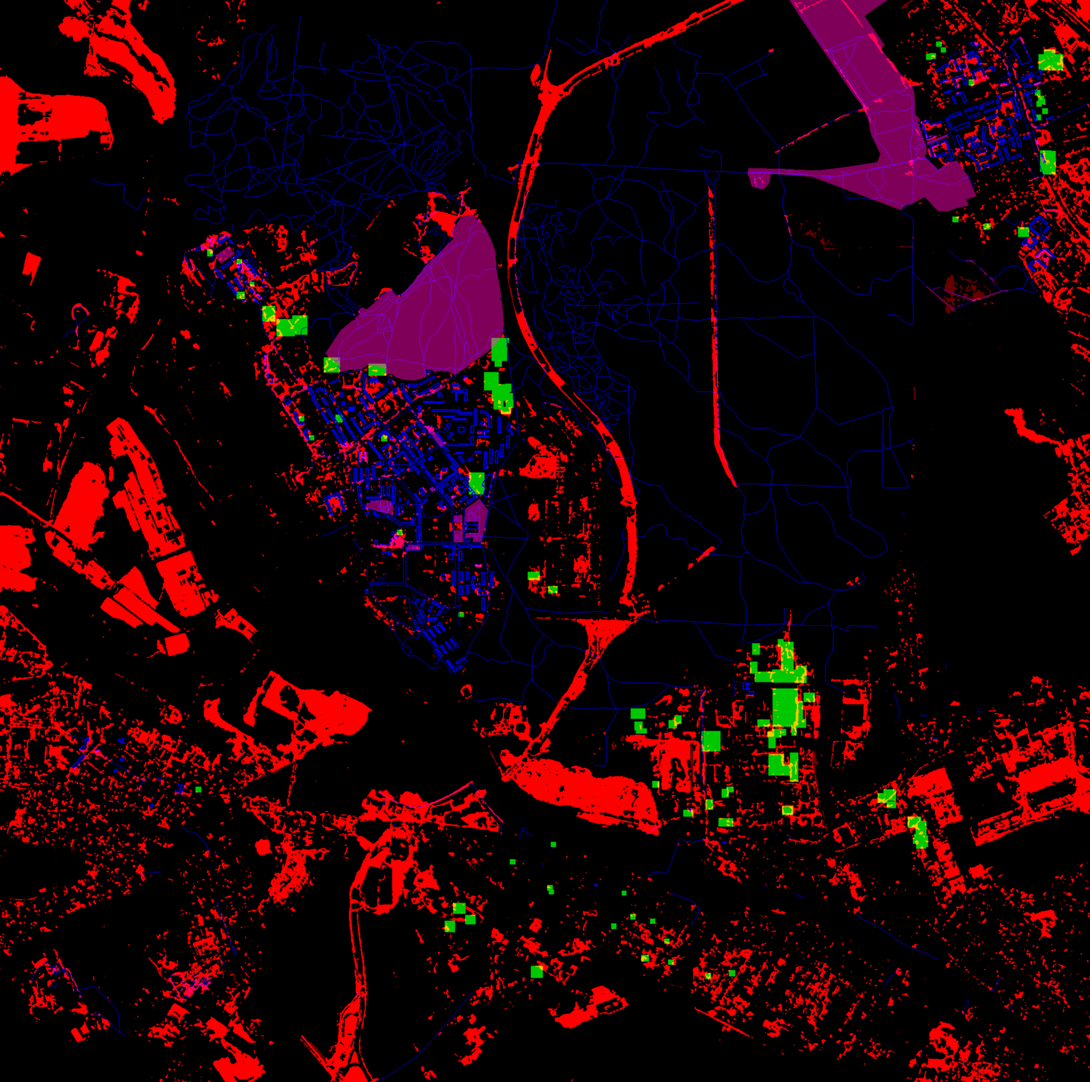
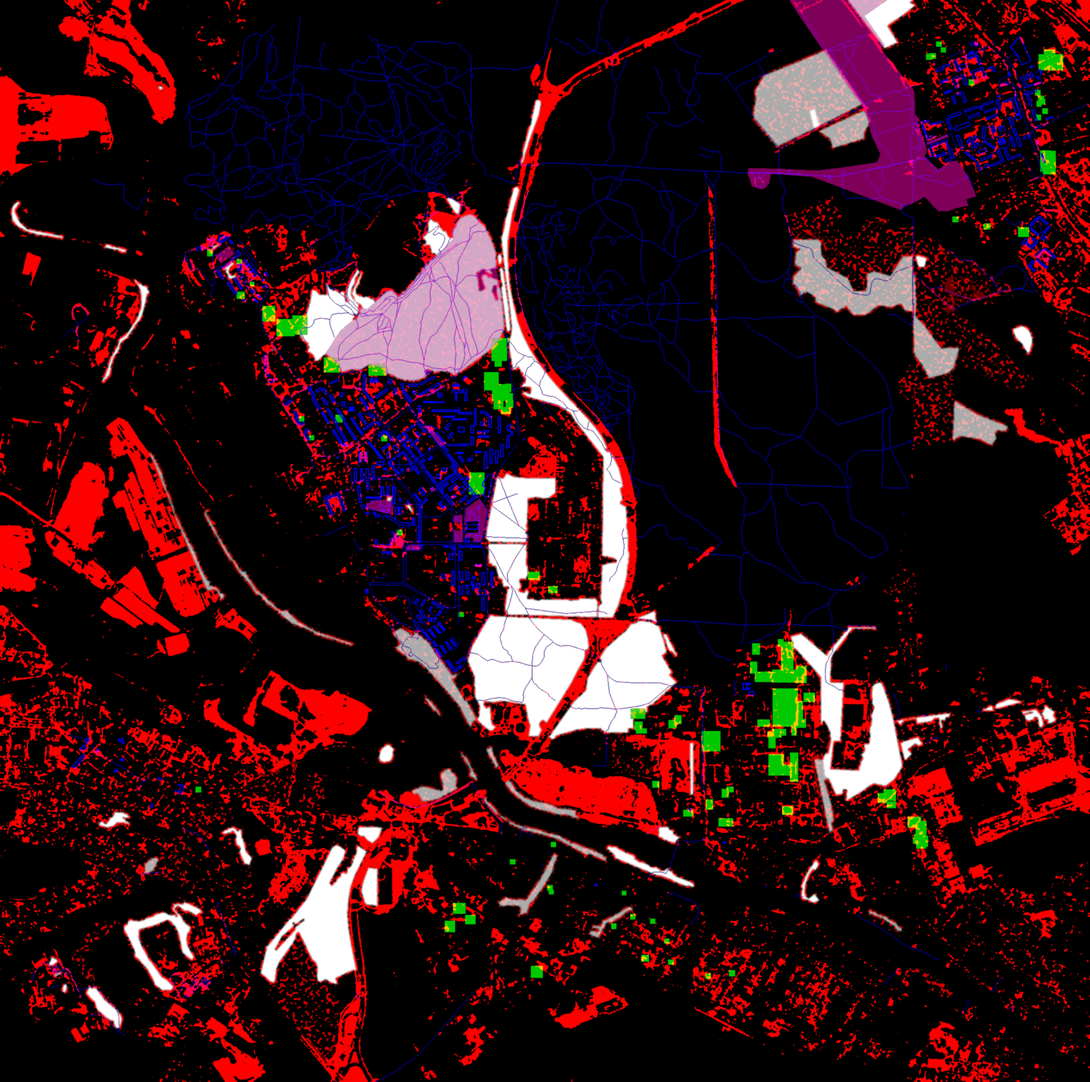
Ground: Poly Haven CC0 pebbles (gravel/garages), brown mud+leaves (worn paths, wood edges, patches in parks), forest_ground_06 (OSM wood/scrub via splat alpha), concrete_pavement (footways/plazas), asphalt_02 in splat; per-surface physics for forest floor; night sky now applied immediately; chase: a

diff --git a/game.js b/game.js
@@ -31,42 +31,46 @@ sun.castShadow=true;sun.shadow.mapSize.setScalar([1024,1024,2048,4096][GSET.shad
 const GND={ext:[-3247.54,-4265.63,8296.3,8237.89],ok:false};window.__GND=GND;{
  const HI=GSET.preset==='high'||GSET.preset==='ultra',LOWT=GSET.preset==='low'||mobile;const TL=new THREE.TextureLoader();
  const T=(f,srgb)=>{const t=TL.load('tex/gnd/'+f);t.wrapS=t.wrapT=THREE.RepeatWrapping;t.anisotropy=mobile?2:HI?8:4;if(srgb)t.encoding=THREE.sRGBEncoding;return t;};
- const NM=['grass','dirt','gravel','pave','asph'];const U={uSpl:{value:TL.load('tex/gnd/splat.png',t=>{GND.img(t.image);})},uAsm:{value:null},uNz:{value:null},uE:{value:new THREE.Vector4(...GND.ext)},uWet:{value:0}};
+ const NM=/oldgnd/.test(Q)?['grass','dirt','gravel','pave','asph']:['grass','dirt','gravel','pave','asph','forest'];const U={uSpl:{value:TL.load('tex/gnd/splat.png',t=>{GND.img(t.image);})},uAsm:{value:null},uNz:{value:null},uE:{value:new THREE.Vector4(...GND.ext)},uWet:{value:0}};
  U.uSpl.value.minFilter=THREE.LinearFilter;U.uSpl.value.generateMipmaps=false;
- NM.forEach((n,i)=>{U['uC'+i]={value:T(n+(LOWT?'_c512.jpg':'_c.jpg'),true)};if(HI)U['uN'+i]={value:T(n+'_n.jpg')};});
+ // Poly Haven CC0 4K sets (webp 2048 Ultra / 1024 / 512 Low): brown_mud_leaves_01, clean_pebbles, concrete_pavement, asphalt_02, forest_ground_06; grass keeps the old set
+ const PHS={dirt:'gnd2/mud',gravel:'gnd2/pebbles',pave:'gnd2/concrete',forest:'gnd2/forest'},SZ=GSET.preset==='ultra'&&!mobile?2048:LOWT?512:1024;
+ NM.forEach((n,i)=>{if(/oldgnd/.test(Q)&&n!=='forest'){U['uC'+i]={value:T(n+(LOWT?'_c512.jpg':'_c.jpg'),true)};if(HI)U['uN'+i]={value:T(n+'_n.jpg')};return;}if(n==='asph'){U['uC'+i]={value:T('../asph/diff_'+SZ+'.webp',true)};if(HI)U['uN'+i]={value:T('../asph/nor_'+Math.max(1024,SZ)+'.webp')};return;}
+  if(PHS[n]){U['uC'+i]={value:T('../'+PHS[n]+'_c'+SZ+'.webp',true)};if(HI)U['uN'+i]={value:T('../'+PHS[n]+'_n'+Math.max(1024,SZ)+'.webp')};return;}
+  U['uC'+i]={value:T(n+(LOWT?'_c512.jpg':'_c.jpg'),true)};if(HI)U['uN'+i]={value:T(n+'_n.jpg')};});
  {const N=64,d=new Uint8Array(N*N*4);for(let i=0;i<N*N*4;i++)d[i]=Math.random()*255|0;const t=new THREE.DataTexture(d,N,N);t.wrapS=t.wrapT=THREE.RepeatWrapping;t.magFilter=t.minFilter=THREE.LinearFilter;t.needsUpdate=true;U.uNz.value=t;}
  {const t=new THREE.DataTexture(new Uint8Array(4),1,1);t.needsUpdate=true;U.uAsm.value=t;}
  GND.setAsm=A=>{if(!A)return;const d=new Uint8Array(A.w*A.h*4);for(let i=0;i<A.m.length;i++)d[i*4]=A.m[i]*255;const t=new THREE.DataTexture(d,A.w,A.h);t.magFilter=t.minFilter=THREE.LinearFilter;t.needsUpdate=true;U.uAsm.value=t;GND.A=A;};
  // CPU copy of the splat for per-surface physics
  GND.img=im=>{try{const c=document.createElement('canvas');c.width=im.width;c.height=im.height;const g=c.getContext('2d');g.drawImage(im,0,0);GND.D=g.getImageData(0,0,c.width,c.height).data;GND.W=c.width;GND.H=c.height;GND.ok=true;}catch(e){}};
- const sc=[.33,.25,.45,.4,.22];// texture repeats per metre: grass 3 m, dirt 4 m, gravel 2.2 m, plitka 2.5 m, asphalt 4.5 m
+ const sc=[.33,.4,.5,.45,.3,.33];// repeats per metre: grass 3 m, mud+leaves 2.5 m, pebbles 2 m, concrete 2.2 m, asphalt 3.3 m, forest floor 3 m
  const m=new THREE.MeshLambertMaterial({color:0xffffff});GND.mat=m;GND.U=U;
  m.onBeforeCompile=sh=>{Object.assign(sh.uniforms,U);
   sh.vertexShader='varying vec3 vGw;\n'+sh.vertexShader.replace('#include <begin_vertex>','#include <begin_vertex>\n vGw=(modelMatrix*vec4(position,1.)).xyz;');
   let dec='varying vec3 vGw;uniform sampler2D uSpl,uAsm,uNz;uniform vec4 uE;uniform float uWet;\n';NM.forEach((n,i)=>{dec+='uniform sampler2D uC'+i+(HI?',uN'+i:'')+';\n';});
   // anti-tiling: two decorrelated samples (offset + rotated) blended by low-frequency noise; High+ only does the second fetch
-  dec+=`vec4 gW;float gNz;
+  dec+=`vec4 gW;float gNz,gFo;
 vec3 smp(sampler2D t,vec2 u){vec3 a=texture2D(t,u).rgb;${HI?'vec2 u2=mat2(.8,-.6,.6,.8)*u*.83+vec2(.37,.71);vec3 b=texture2D(t,u2).rgb;return mix(a,b,smoothstep(.35,.65,gNz));':'return a*(.88+.24*gNz);'}}
 `;
   sh.fragmentShader=dec+sh.fragmentShader.replace('#include <map_fragment>',`
  vec2 su=(vGw.xz-uE.xy)/uE.zw;float ins=step(0.,su.x)*step(su.x,1.)*step(0.,su.y)*step(su.y,1.);
  gNz=texture2D(uNz,vGw.xz*.011).r*.6+texture2D(uNz,vGw.xz*.043).g*.4;float nz2=texture2D(uNz,vGw.xz*.19).b;
- vec3 sp=texture2D(uSpl,su).rgb*ins;float wa=texture2D(uAsm,su).r*ins;
+ vec4 spa=texture2D(uSpl,su);vec3 sp=spa.rgb*ins;float fo=(1.-spa.a)*ins;fo=clamp((fo-.5+(gNz-.5)*.6)*2.+.5,0.,1.)*step(.04,fo);gFo=fo;float wa=texture2D(uAsm,su).r*ins;
  // noisy, sharpened transitions (worn edges instead of 4 m blur)
  vec4 w=vec4(sp,wa);w=clamp((w-.5+(gNz-.5)*.55+(nz2-.5)*.25)*2.2+.5,0.,1.)*step(.04,vec4(sp,wa));
  float wg=max(0.,1.-w.x-w.y-w.z-w.w);float tot=wg+w.x+w.y+w.z+w.w;gW=w/tot;float wgr=wg/tot;
  vec2 p=vGw.xz;vec3 col=vec3(0.);
- if(wgr>.01)col+=smp(uC0,p*${sc[0]})*wgr;if(gW.x>.01)col+=smp(uC1,p*${sc[1]})*gW.x;if(gW.y>.01)col+=smp(uC2,p*${sc[2]})*gW.y;if(gW.z>.01)col+=smp(uC3,p*${sc[3]})*gW.z;if(gW.w>.01)col+=smp(uC4,p*${sc[4]})*gW.w;
+ if(wgr*(1.-gFo)>.01)col+=smp(uC0,p*${sc[0]})*wgr*(1.-gFo);${NM.length>5?'if(wgr*gFo>.01)col+=smp(uC5,p*'+sc[5]+')*wgr*gFo;':''}if(gW.x>.01)col+=smp(uC1,p*${sc[1]})*gW.x;if(gW.y>.01)col+=smp(uC2,p*${sc[2]})*gW.y;if(gW.z>.01)col+=smp(uC3,p*${sc[3]})*gW.z;if(gW.w>.01)col+=smp(uC4,p*${sc[4]})*gW.w;
  col*=mix(vec3(1.),vec3(.62,.64,.68),uWet*(1.-wgr*.5));// wet darkening
  diffuseColor.rgb*=col*1.25;`);
   if(HI)sh.fragmentShader=sh.fragmentShader.replace('#include <normal_fragment_maps>',`
  {vec3 nm=vec3(0.,0.,1.);vec2 p=vGw.xz;float wgr=max(0.,1.-gW.x-gW.y-gW.z-gW.w);
-  vec3 a=(texture2D(uN0,p*${sc[0]}).xyz*2.-1.)*wgr+(texture2D(uN1,p*${sc[1]}).xyz*2.-1.)*gW.x+(texture2D(uN2,p*${sc[2]}).xyz*2.-1.)*gW.y+(texture2D(uN3,p*${sc[3]}).xyz*2.-1.)*gW.z+(texture2D(uN4,p*${sc[4]}).xyz*2.-1.)*gW.w;
+  vec3 a=(texture2D(uN0,p*${sc[0]}).xyz*2.-1.)*wgr*(1.-gFo)${NM.length>5?'+(texture2D(uN5,p*'+sc[5]+').xyz*2.-1.)*wgr*gFo':''}+(texture2D(uN1,p*${sc[1]}).xyz*2.-1.)*gW.x+(texture2D(uN2,p*${sc[2]}).xyz*2.-1.)*gW.y+(texture2D(uN3,p*${sc[3]}).xyz*2.-1.)*gW.z+(texture2D(uN4,p*${sc[4]}).xyz*2.-1.)*gW.w;
   a.xy*=.8;vec3 wn=normalize(vec3(a.x,a.z,a.y));normal=normalize((viewMatrix*vec4(wn,0.)).xyz);}`);
  };m.customProgramCacheKey=()=>'gnd'+(HI?1:0)+(LOWT?1:0);
  // per-surface lookup: 0 asphalt,1 plitka,2 gravel,3 dirt,4 grass
  GND.surf=(x,z)=>{if(GND.A&&(()=>{const A=GND.A,i=Math.floor((x-A.x0)/A.c),j=Math.floor((z-A.z0)/A.c);return i>=0&&j>=0&&i<A.w&&j<A.h&&A.m[j*A.w+i]===1;})())return 0;if(!GND.ok)return 4;
-  const i=Math.floor((x-GND.ext[0])/GND.ext[2]*GND.W),j=Math.floor((z-GND.ext[1])/GND.ext[3]*GND.H);if(i<0||j<0||i>=GND.W||j>=GND.H)return 4;const o=(j*GND.W+i)*4,d=GND.D[o],g=GND.D[o+1],pv=GND.D[o+2];const mx=Math.max(d,g,pv);if(mx<110)return 4;return mx===pv?1:mx===g?2:3;};
+  const i=Math.floor((x-GND.ext[0])/GND.ext[2]*GND.W),j=Math.floor((z-GND.ext[1])/GND.ext[3]*GND.H);if(i<0||j<0||i>=GND.W||j>=GND.H)return 4;const o=(j*GND.W+i)*4,d=GND.D[o],g=GND.D[o+1],pv=GND.D[o+2];const mx=Math.max(d,g,pv);if(mx<110){if(GND.D[o+3]<128)return ((i*7+j*13)%3)?3:4;/* forest floor: dirt/grass mix */return 4;}return mx===pv?1:mx===g?2:3;};
 }
 const grass=tex(cv(256,256,(g,w,h)=>{g.fillStyle='#6b8f4e';g.fillRect(0,0,w,h);for(let i=0;i<4000;i++){g.fillStyle=`hsl(${80+rnd()*30},${30+rnd()*25}%,${25+rnd()*20}%)`;g.fillRect(rnd()*w,rnd()*h,2,3);}}),400,400);
 const ground=new THREE.Mesh(new THREE.PlaneGeometry(14000,14000,(window.HGT?HGT.n-1:1),(window.HGT?HGT.n-1:1)),(/[?&]sat\b/.test(Q)?new THREE.MeshLambertMaterial({map:grass}):GND.mat));ground.rotation.x=-Math.PI/2;ground.position.y=/[?&]sat\b/.test(Q)?-.25:-.07;if(window.HGT){const sc=window.SATC||[];let X0=-3000,X1=3000,Z0=-3000,Z1=3000;if(sc.length){X0=Math.min(...sc.map(c=>c.x0));X1=Math.max(...sc.map(c=>c.x1));Z0=Math.min(...sc.map(c=>c.z0));Z1=Math.max(...sc.map(c=>c.z1));}
@@ -846,10 +850,11 @@ for(let i=0;i<PN&&longR.length;i++){const o=longR[Math.floor(rnd()*longR.length)
 S.add(pb,ph,pl);
 PT('player car');// ---------- player car + BMW-style cockpit ----------
 const car=new THREE.Group();
+const RVL=[0].map(x=>{const l=new THREE.PointLight(0xfff4e6,0,16,1.4);l.position.set(0,.8,-3.1);car.add(l);l.visible=false;return l;});/* point light: spot lights break r149 cookie-map indexing (hl.map) */window.__RVL=RVL;
 // reverse lamps: two wide white spot lights behind the tailgate (~18 m), always in the scene (intensity 0 when off -> no shader recompile)
-const RVL=[-.62,.62].map(x=>{const l=new THREE.SpotLight(0xfff4e6,0,18,1.05,.7,1.6);l.position.set(x,.75,-2.45);l.target.position.set(x*2.2,0,-9);car.add(l,l.target);l.visible=false;return l;});
+
 // GLB parts with alpha textures came in as transparent+no depth write -> things drew through the body; make them alpha-tested opaque
-const fixCarMats=()=>car.traverse(o=>{if(!o.isMesh)return;(Array.isArray(o.material)?o.material:[o.material]).forEach(m=>{if(m.transparent&&m.opacity>=.99&&!m.userData.glass&&m.blending===THREE.NormalBlending&&!(m.isShaderMaterial||m.type==='ShaderMaterial')&&!o.userData.hud){m.transparent=false;m.depthWrite=true;m.alphaTest=Math.max(m.alphaTest,.5);m.needsUpdate=true;}});});
+const fixCarMats=()=>car.traverse(o=>{if(!o.isMesh||o.userData.cabM)return;(Array.isArray(o.material)?o.material:[o.material]).forEach(m=>{if(m.transparent&&m.opacity>=.99&&!m.userData.glass&&m.blending===THREE.NormalBlending&&!(m.isShaderMaterial||m.type==='ShaderMaterial')&&!o.userData.hud){m.transparent=false;m.depthWrite=true;m.alphaTest=Math.max(m.alphaTest,.5);m.needsUpdate=true;}});});
 {let n=0;const iv=setInterval(()=>{fixCarMats();if(++n>30)clearInterval(iv);},1000);}S.add(car);const cab=new THREE.Group();window.__cab=cab;cab.rotation.y=Math.PI;car.add(cab);
 const leather=tex(cv(512,512,(g,w,h)=>{g.fillStyle='#1c1917';g.fillRect(0,0,w,h);for(let i=0;i<14000;i++){const v=rnd();g.fillStyle=`rgba(${v<.5?0:70},${v<.5?0:60},${v<.5?0:55},${.25*rnd()})`;g.beginPath();g.arc(rnd()*w,rnd()*h,.6+rnd()*1.6,0,6.3);g.fill();}}),3,3);
 const stitchT=tex(cv(64,8,(g)=>{g.fillStyle='rgba(0,0,0,0)';g.clearRect(0,0,64,8);g.fillStyle='#c9a27a';for(let x=4;x<64;x+=16)g.fillRect(x,2,9,4);}),60,1);
@@ -1075,16 +1080,33 @@ if(THREE.GLTFLoader&&!/nomodel/.test(Q)){const ld=new THREE.GLTFLoader();if(wind
   const nw=[];[['Wheel_FL','Caliper_FL',1],['Wheel_FR','Caliper_FR',1],['Wheel_RL',null,0],['Wheel_RR',null,0]].forEach(([wn,cn,f])=>{const w=N[wn];if(!w)return;const g=new THREE.Group();g.position.copy(w.position).add(root.position);xb.add(g);w.position.set(0,0,0);g.add(w);if(cn&&N[cn]){N[cn].position.set(0,0,0);g.add(N[cn]);}nw.push({g,sp:w,f});});
   if(N.Steering){const ax=(N.Steering.userData&&N.Steering.userData.axis)||[0,.909,.417];XM.sw=N.Steering;XM.swQ=N.Steering.quaternion.clone();XM.swAx=new THREE.Vector3(ax[0],ax[2],-ax[1]).normalize();}
   if(nw.length==4&&!/nocabmodel/.test(Q)){// cabin: clone of body+interior+steering with cheap unlit-ish materials, procedural cabin hidden except screens/mirrors
-   const cx=root.clone(true),MC={};cx.traverse(o=>{if(!o.isMesh)return;o.castShadow=o.receiveShadow=false;const f=m=>{if(MC[m.uuid])return MC[m.uuid];
+   const cx=root.clone(true),MC={};
+   // Poly Haven CC0 cabin textures: fabric_leather_02 (wheel rim, armrests/edges), velour_velvet (seats, doors, headliner lighter), coated_pine (fineline wood trims)
+   const CT=!/[?&]cabtex/.test(Q)?{}:(()=>{const L=new THREE.TextureLoader(),S=mobile?512:1024,t=(n,srgb)=>{const x=L.load('tex/cab/'+n+S+'.webp');x.wrapS=x.wrapT=THREE.RepeatWrapping;x.anisotropy=4;if(srgb)x.encoding=THREE.sRGBEncoding;return x;};
+    return{lc:t('leather_c',1),ln:t('leather_n'),lr:t('leather_r'),vc:t('velour_c',1),vn:t('velour_n'),wc:t('wood_c',1),wn:t('wood_n'),wr:t('wood_r')};})();
+   const CROLE=!/[?&]cabtex/.test(Q)?{}:{Steering_2:'rim',Interior_7:'leather',Interior_8:'velour',Interior_2:'wood'};
+   // r149 BufferGeometry.clone() of GLB interleaved attributes loses the buffer byteOffset -> garbage; deinterleave by hand
+   const dcl=g=>{const n=new THREE.BufferGeometry();for(const k in g.attributes){const A=g.attributes[k],it=A.itemSize,arr=new Float32Array(A.count*it);for(let i=0;i<A.count;i++)for(let j=0;j<it;j++)arr[i*it+j]=A.getComponent?A.getComponent(i,j):[A.getX(i),A.getY(i),A.getZ(i),A.getW(i)][j];n.setAttribute(k,new THREE.BufferAttribute(arr,it,A.normalized));}if(g.index)n.setIndex(g.index.clone());g.groups.forEach(q=>n.addGroup(q.start,q.count,q.materialIndex));return n;};
+   const boxUV=(g,k)=>{g=dcl(g);const P=g.attributes.position,N=g.attributes.normal,uv=new Float32Array(P.count*2);for(let i=0;i<P.count;i++){const x=P.getX(i),y=P.getY(i),z=P.getZ(i),ax=Math.abs(N.getX(i)),ay=Math.abs(N.getY(i)),az=Math.abs(N.getZ(i));let u,v;if(az>=ax&&az>=ay){u=x;v=y;}else if(ay>=ax){u=x;v=z;}else{u=z;v=y;}uv[i*2]=u*k;uv[i*2+1]=v*k;}g.setAttribute('uv',new THREE.BufferAttribute(uv,2));return g;};
+   const rimUV=g=>{g=dcl(g);const P=g.attributes.position;let Rm=0,zc=0;for(let i=0;i<P.count;i++){Rm+=Math.hypot(P.getX(i),P.getY(i));zc+=P.getZ(i);}Rm/=P.count;zc/=P.count;const uv=new Float32Array(P.count*2);
+    for(let i=0;i<P.count;i++){const x=P.getX(i),y=P.getY(i),r=Math.hypot(x,y);uv[i*2]=(Math.atan2(y,x)/6.2832+.5)*10;uv[i*2+1]=(Math.atan2(P.getZ(i)-zc,r-Rm)/6.2832+.5)*1.5;}g.setAttribute('uv',new THREE.BufferAttribute(uv,2));return g;};
+   const velCol=g=>{const P=g.attributes.position;g.computeBoundingBox();const b=g.boundingBox,c=new Float32Array(P.count*3);for(let i=0;i<P.count;i++){const t=(P.getY(i)-b.min.y)/(b.max.y-b.min.y);const hd=t>.78?1:0;const v=hd?.78:.2;c[i*3]=v*1.02;c[i*3+1]=v;c[i*3+2]=v*.97;}g.setAttribute('color',new THREE.BufferAttribute(c,3));return g;};
+   
+   cx.traverse(o=>{if(!o.isMesh)return;o.castShadow=o.receiveShadow=false;{const role=CROLE[o.name];if(role&&!o.userData.ct){o.userData.ct=1;o.geometry=role==='rim'?rimUV(o.geometry):role==='velour'?velCol(boxUV(o.geometry,9)):boxUV(o.geometry,role==='wood'?4.5:7);o.userData.role=role;}}const f=m=>{const mk=m.uuid+(o.userData.role||'');if(MC[mk])return MC[mk];
   // interior materials by part: PBR (Standard + room env map) on Medium+, Lambert on Low; emissive kept low so trims don't blow out
   const PB=!(GSET.preset==='low'||mobile),nm=m.name||'';const K={LEATHER:{r:.5,m:0,e:.6,env:.55,stitch:1},STIT:{r:.6,m:0,e:.7,env:.3},INT_MAT:{r:.22,m:1,e:.12,env:1.25,col:0xb9bec4},INT_A:{r:.32,m:.55,e:.8,env:1},Plastic_INT:{r:.6,m:0,e:.9,env:.45},Fabric:{r:.95,m:0,e:1.2,env:.15,col:0xc9c6bf},Speaker:{r:.35,m:.8,e:.6,env:.9},Speaker_1:{r:.35,m:.8,e:.6,env:.9},grille_INT_1:{r:.3,m:.85,e:.6,env:1},Grille_Int:{r:.3,m:.85,e:.6,env:1},DISK:{r:.25,m:.9,e:.6,env:1.1},BADGES:{r:.2,m:.9,e:.6,env:1.1},x5dummy_material_39:{r:.07,m:0,e:0,env:1.3,col:0x050608,piano:1}}[nm]||{r:.6,m:0,e:.8,env:.4};
-  const l=PB?new THREE.MeshStandardMaterial({color:m.color,map:m.map,transparent:m.transparent,opacity:m.opacity,depthWrite:m.depthWrite,side:THREE.DoubleSide,alphaTest:m.alphaTest,roughness:K.r,metalness:K.m}):new THREE.MeshLambertMaterial({color:m.color,map:m.map,transparent:m.transparent,opacity:m.opacity,depthWrite:m.depthWrite,side:THREE.DoubleSide,alphaTest:m.alphaTest});
+  let l=PB?new THREE.MeshStandardMaterial({color:m.color,map:m.map,transparent:m.transparent,opacity:m.opacity,depthWrite:m.depthWrite,side:THREE.DoubleSide,alphaTest:m.alphaTest,roughness:K.r,metalness:K.m}):new THREE.MeshLambertMaterial({color:m.color,map:m.map,transparent:m.transparent,opacity:m.opacity,depthWrite:m.depthWrite,side:THREE.DoubleSide,alphaTest:m.alphaTest});
   l.userData.src=nm;l.userData.eK=K.e;l.userData.env=K.env;if(K.col!==undefined)l.color.setHex(K.col);
   if(m.emissiveMap){l.emissive=m.emissive;l.emissiveMap=m.emissiveMap;}else if(m.map){l.emissive=new THREE.Color(.1,.1,.1);l.emissiveMap=m.map;}else l.emissive=m.color.clone().multiplyScalar(.08);
   if(K.piano){l.map=l.emissiveMap=null;l.emissive.setHex(0);}
   if(PB&&K.stitch&&CABX.leatherN){l.normalMap=CABX.leatherN;l.normalScale=new THREE.Vector2(.35,.35);}
+  {const role=o.userData.role,HQ=PB&&(GSET.preset==='high'||GSET.preset==='ultra');if(role&&PB){const ph=HQ?new THREE.MeshPhysicalMaterial({side:THREE.DoubleSide}):new THREE.MeshStandardMaterial({side:THREE.DoubleSide});ph.userData=l.userData;
+    if(role==='rim'||role==='leather'){ph.map=CT.lc;ph.normalMap=CT.ln;ph.normalScale=new THREE.Vector2(.8,.8);ph.roughnessMap=CT.lr;ph.roughness=.85;if(HQ){ph.sheen=.35;ph.sheenRoughness=.45;ph.sheenColor=new THREE.Color(0x6a6660);}ph.emissive=new THREE.Color(0x0a0a0a);ph.emissiveMap=CT.lc;}
+    else if(role==='velour'){ph.map=CT.vc;ph.normalMap=CT.vn;ph.normalScale=new THREE.Vector2(.6,.6);ph.vertexColors=true;ph.roughness=.95;if(HQ){ph.sheen=1;ph.sheenRoughness=.35;ph.sheenColor=new THREE.Color(0x8a8580);}ph.emissive=new THREE.Color(0x111111);ph.emissiveMap=CT.vc;}
+    else if(role==='wood'){ph.map=CT.wc;ph.normalMap=CT.wn;ph.normalScale=new THREE.Vector2(.4,.4);ph.roughnessMap=CT.wr;ph.roughness=.6;if(HQ){ph.clearcoat=1;ph.clearcoatRoughness=.06;}ph.emissive=new THREE.Color(0x0c0a08);ph.emissiveMap=CT.wc;}
+    ph.userData.eK=.6;ph.userData.env=role==='wood'?1.1:.35;l.dispose();l=ph;}}
   if(PB&&CABX.env){l.envMap=CABX.env;l.envMapIntensity=K.env*(tod==0?1:tod==1?.5:.12);}
-  (XM.cabMats=XM.cabMats||[]).push(l);if(l.emissiveMap)l.emissive.setScalar(K.e*(tod==0?.2:tod==1?.12:.05));return MC[m.uuid]=l;};o.material=Array.isArray(o.material)?o.material.map(f):f(o.material);});
+  (XM.cabMats=XM.cabMats||[]).push(l);if(l.emissiveMap)l.emissive.setScalar(K.e*(tod==0?.2:tod==1?.12:.05));return MC[mk]=l;};o.material=Array.isArray(o.material)?o.material.map(f):f(o.material);});
    cx.rotation.y=Math.PI;cx.position.set(0,-.029,-.006);if(CABX.fill&&!CABX.fill.parent){car.add(CABX.fill,CABX.amb);CABX.fill.intensity=tod==0?.9:tod==1?.45:.05;CABX.amb.intensity=tod==2?.35:tod==1?.12:0;}const keep=new Set([disp,prM,rcG,hudM.parent===cab?hudM:null,...MIR.map(o=>o.mesh)]);cab.children.forEach(o=>{if(o.isCamera||o.isLight||keep.has(o))return;o.visible=false;});
    {// Curved Display fitted to the model's own screen quads (Interior_11: cluster x -.554..-.235, CID x -.161..183; measured in cab frame)
  const P=[[-.554,-.662,-.685],[-.235,-.645,-.667],[-.161,-.635,-.661],[.183,-.569,-.596]],yb=1.067,yt=1.194,N=36,pos=[],uv=[],idx=[];
@@ -1138,7 +1160,7 @@ function bodyTick(dt){lightTick();gfxTick(dt);const delta=st.steer*.6/(1+Math.ab
  tailM.color.setHex(st.brk>.1||st.held?0xff1010:(lights?0x8a1010:0x400606));revM.color.setHex(st.sel==='R'?0xffffff:0x333333);
  body.children.forEach(o=>{if(o.userData.side){const on=(st.haz||st.ind===o.userData.side*-1||st.ind===o.userData.side)&&indOn;}});
  const iL=(st.haz||st.ind===-1)&&indOn,iR=(st.haz||st.ind===1)&&indOn;body.children.forEach(o=>{if(o.userData.side){o.material=o.userData.side>0?(iL?indOnM:indM):(iR?indOnM:indM);}});
- if(chase){const s=Math.sin(st.h),c=Math.cos(st.h);const hb2=st.h+(st.beta||0)*.6+CA,s3=Math.sin(hb2),c3=Math.cos(hb2);const tx=st.x-s3*6.2,tz=st.z-c3*6.2;if(!chP)chP=new THREE.Vector3(tx,2.4,tz);chP.lerp(_v1.set(tx,2.4,tz),Math.min(1,dt*10));chaseCam.position.copy(chP);if(COLX.shk>0){const k=COLX.shk*COLX.shk*.35,tt=performance.now()*.05;chaseCam.position.x+=Math.sin(tt*1.3)*k;chaseCam.position.y+=Math.sin(tt*1.7)*k*.6;chaseCam.position.z+=Math.cos(tt*1.1)*k;};chaseCam.position.y+=GFX.y*3;chaseCam.lookAt(st.x+s*3,1.1-GFX.p*6,st.z+c*3);}}
+ if(chase){const s=Math.sin(st.h),c=Math.cos(st.h);const hb2=st.h+(st.beta||0)*.6+CA,s3=Math.sin(hb2),c3=Math.cos(hb2);const tx=st.x-s3*6.2,tz=st.z-c3*6.2;if(!chP)chP=new THREE.Vector3(tx,2.4,tz);chP.lerp(_v1.set(tx,2.4,tz),Math.min(1,dt*10));chaseCam.position.copy(chP);if(COLX.shk>0&&performance.now()-(window.__t0s||(window.__t0s=performance.now()))>3000){const k=Math.min(1,COLX.shk)**2*.35,tt=performance.now()*.05;chaseCam.position.x+=Math.sin(tt*1.3)*k;chaseCam.position.y+=Math.sin(tt*1.7)*k*.6;chaseCam.position.z+=Math.cos(tt*1.1)*k;};chaseCam.position.y+=Math.max(-.3,Math.min(.3,GFX.y*3));chaseCam.lookAt(st.x+s*3,1.1-GFX.p*6,st.z+c*3);}}
 const indOnM=new THREE.MeshBasicMaterial({color:0xffa010});
 function setChase(v){chase=v;body.visible=v;cab.visible=!v;chP=null;const b=document.getElementById('bCam');if(b)b.classList.toggle('a',v);}if(/[?&]chase/.test(Q))setTimeout(()=>setChase(true),0);
 const topCam=new THREE.PerspectiveCamera(60,innerWidth/innerHeight,Q.includes("city")?50:1,12000);
@@ -1261,7 +1283,7 @@ COLX.resolve=dt=>{if(DYNO)return;COLX.trees();const s2=Math.sin(st.h),c2=Math.co
 function sfx(type,v){if(!AU||v<.05)return;const A=AU;if(type=='crash'){A.burst(120,.7,.45,.9*v);A.burst(900,1.2,.25,.5*v);A.burst(3200,2,.15,.25*v);}else if(type=='crack'){for(let i=0;i<5;i++)setTimeout(()=>A.burst(1500+Math.random()*2500,4,.06,.5*v),i*35);A.burst(200,1,.5,.6*v);}else if(type=='metal'){A.burst(650,12,.6,.4*v);A.burst(1900,14,.4,.25*v);}}
 // ---------- input ----------
 const K={};addEventListener('keydown',e=>{K[e.code]=1;if(e.code=='Backspace')Object.assign(st,JSON.parse(JSON.stringify(start)));if(e.code=='Space')e.preventDefault();audioInit();});addEventListener('keyup',e=>K[e.code]=0);
-const CA=(+(/ca=(-?\d+)/.exec(Q)||[0,0])[1])*Math.PI/180;const TST=(/tst=(\w+)/.exec(Q)||[])[1];const AID=!/aid=0/.test(Q);let tT0=0,tT=0,tPh=0,tX0=0,tZ0=0,tH0=0,tLog=0,tMax=0,tSpin=0,tSpinN=0,tLockN=0,tAbsN=0;const DRIFT=Q.includes('drift'),HBT=Q.includes('hbt');let dT=0;const T={steer:0,gas:0,brk:0,hb:0};{const m=/at=(-?\d+),(-?\d+)/.exec(Q);if(m){st.x=+m[1];st.z=+m[2];}}let swAng=0,swHeld=false;
+const CA=(+(/ca=(-?\d+)/.exec(Q)||[0,0])[1])*Math.PI/180;const TST=(/tst=(\w+)/.exec(Q)||[])[1];const AID=!/aid=0/.test(Q);let tT0=0,tT=0,tPh=0,tX0=0,tZ0=0,tH0=0,tLog=0,tMax=0,tSpin=0,tSpinN=0,tLockN=0,tAbsN=0;const DRIFT=Q.includes('drift'),HBT=Q.includes('hbt');let dT=0;const T={steer:0,gas:0,brk:0,hb:0};{const m=/at=(-?\d+),(-?\d+)(?:,(-?[\d.]+))?/.exec(Q);if(m){st.x=+m[1];st.z=+m[2];if(m[3]!==undefined)st.h=+m[3]*Math.PI/180;}}let swAng=0,swHeld=false;
 function setGear(g){const sp=Math.abs(st.v)*3.6;if(g===st.sel)return;if(sp>3&&!(g==='N'))return flash();st.sel=g;st.rev=g==='R';if(g!=='D')st.g=0;updGsel();}
 function flash(){const e=document.getElementById('lever');if(e){e.style.outline='2px solid #f44';setTimeout(()=>e.style.outline='',300);}}
 function gearMove(d){const ord=['R','N','D'];const i=ord.indexOf(st.sel);if(st.sel==='P')setGear(d<0?'R':'D');else setGear(ord[Math.max(0,Math.min(2,i+d))]);knobKick=d;}
@@ -1490,8 +1512,8 @@ const SKY={};window.__SKY=SKY;if(!/oldsky/.test(Q)){const L=new THREE.TextureLoa
    #include <encodings_fragment>
   }`});
  const dome=new THREE.Mesh(new THREE.SphereGeometry(900,32,16),m);dome.frustumCulled=false;dome.renderOrder=-10;dome.onBeforeRender=(r,sc,cm)=>{dome.position.copy(cm.getWorldPosition(new THREE.Vector3()));};S.add(dome);SKY.dome=dome;
- SKY.set=()=>{const wet=typeof WX!='undefined'?WX.w:0;U.uW.value.set(tod==0?1:0,tod==1?1:0,tod==2?1:0,wet?(wet>=2?.85:.6):0);U.uHz.value.copy(S.fog.color);U.uZ.value.setHex(tod==0?0x3d7cc9:tod==1?0x2b2f5a:0x02040c);if(wet)U.uZ.value.lerp(new THREE.Color(tod==2?0x0a0c10:0x7a838c),.7);S.background=null;};
- SKY.tick=dt=>{U.uT.value+=dt;if((SKY.f=(SKY.f||0)+1)%30==0)SKY.set();};}
+ SKY.set=()=>{let wet=0;try{wet=WX.w;}catch(e){}U.uW.value.set(tod==0?1:0,tod==1?1:0,tod==2?1:0,wet?(wet>=2?.85:.6):0);U.uHz.value.copy(S.fog.color);U.uZ.value.setHex(tod==0?0x3d7cc9:tod==1?0x2b2f5a:0x02040c);if(wet)U.uZ.value.lerp(new THREE.Color(tod==2?0x0a0c10:0x7a838c),.7);S.background=null;};
+ SKY.tick=dt=>{U.uT.value+=dt;let w=0;try{w=WX.w;}catch(e){}if((SKY.f=(SKY.f||0)+1)%30==1||SKY.lt!==tod*10+w){SKY.lt=tod*10+w;SKY.set();}};}
 const hl=new THREE.SpotLight(0xfff4d8,0,90,.5,.45,1.2);hl.position.set(0,1,2.2);const hlT=new THREE.Object3D();hlT.position.set(0,0,22);car.add(hl,hlT);hl.target=hlT;
 // BMW LED low beam: asymmetric cookie (flat cut-off on the left/oncoming side, 15deg rise to the right kerb side), high beam cookie = wide even spot
 const HLX={};{const ck=(hi)=>{const N=256,c=document.createElement('canvas');c.width=c.height=N;const g=c.getContext('2d');g.fillStyle='#000';g.fillRect(0,0,N,N);
@@ -1556,7 +1578,8 @@ MIR.forEach((o,i)=>{o.c.far=i?110:90;o.c.updateProjectionMatrix();o.side=i>0;});
  // full rate: every mirror every frame (desktop & phones); Low: round-robin one mirror per frame
  const list=LOWM?[MIR[mfr%MIR.length]]:MIR;const hid=[];const hide=x=>{if(x.visible){x.visible=false;hid.push(x);}};const light=mobile||LOWM;
  if(GRASS.m)hide(GRASS.m);if(light){(window.__TREECH||[]).forEach(g=>{if(g.userData.r<1)hide(g);});(window.__FURNCH||[]).forEach(hide);Object.values(NEAR.im).forEach(hide);(PCAR.ch||[]).forEach(hide);}if(window.__XM&&__XM.int)__XM.int.forEach(hide);
- list.forEach(o=>{const h2=[];const hd=x=>{if(x.visible){x.visible=false;h2.push(x);}};let bodyOn=false;if(!o.side&&window.__XM&&__XM.cabWin)hd(__XM.cabWin);if(o.side){hd(cab);if(window.__XM&&__XM.ok&&!body.visible){body.visible=true;bodyOn=true;}}R.setRenderTarget(o.rt);R.render(S,o.c);if(bodyOn)body.visible=false;h2.forEach(x=>x.visible=true);});
+ if(!MIR.glass){MIR.glass=[];const T=new Set(MIR.map(m=>m.rt.texture));S.traverse(x=>{if(x.isMesh&&x.material&&!Array.isArray(x.material)&&T.has(x.material.map))MIR.glass.push(x);});}
+ list.forEach(o=>{const h2=[];const hd=x=>{if(x.visible){x.visible=false;h2.push(x);}};MIR.glass.forEach(hd);/* never sample a mirror RT while rendering into it (feedback loop -> garbage textures) */let bodyOn=false;if(!o.side&&window.__XM&&__XM.cabWin)hd(__XM.cabWin);if(o.side){hd(cab);if(window.__XM&&__XM.ok&&!body.visible){body.visible=true;bodyOn=true;}}R.setRenderTarget(o.rt);R.render(S,o.c);if(bodyOn)body.visible=false;h2.forEach(x=>x.visible=true);});
  R.setRenderTarget(null);hid.forEach(x=>x.visible=true);}
 // ---------- current address (OSM street names + addr:housenumber), ~1 Hz, spatial index ----------
 const ADR={txt:'Лыткарино',t:0};window.__ADR=ADR;{const A=window.ADDR;if(A){const G={},HG={},c=50;A.s.forEach(([ni,q])=>{for(let i=0;i<q.length-1;i++){const a=q[i],b=q[i+1];for(let gx=Math.floor(Math.min(a[0],b[0])/c);gx<=Math.floor(Math.max(a[0],b[0])/c);gx++)for(let gz=Math.floor(Math.min(a[1],b[1])/c);gz<=Math.floor(Math.max(a[1],b[1])/c);gz++)(G[gx+','+gz]=G[gx+','+gz]||[]).push([a,b,ni]);}});

diff --git a/tools_splat.py b/tools_splat.py
@@ -1,4 +1,4 @@
-# builds tex/gnd/splat.png (R=dirt, G=gravel, B=paving/plitka; asphalt comes from asph.js) at 4 m/px over the city
+# builds tex/gnd/splat.png (R=dirt/mud+leaves, G=gravel/pebbles, B=paving/concrete, A=1-forest floor; asphalt comes from asph.js) at 4 m/px over the city
 import json,re,subprocess,numpy as np
 from PIL import Image,ImageDraw,ImageFilter
 X0,Z0,C,W,H=-3247.54,-4265.63,4,2074,2059
@@ -24,14 +24,21 @@ grv=img();dg=ImageDraw.Draw(grv)
 for bd in city['b']:
   if bd.get('k') in ('garage','garages','industrial','warehouse','service','hangar','shed'):
     xs=[p[0] for p in bd['p']];zs=[p[1] for p in bd['p']];dg.rectangle([(min(xs)-14-X0)/C,(min(zs)-14-Z0)/C,(max(xs)+14-X0)/C,(max(zs)+14-Z0)/C],fill=200)
-grn=img();dn=ImageDraw.Draw(grn);ply=img();dy=ImageDraw.Draw(ply)
+grn=img();dn=ImageDraw.Draw(grn);ply=img();dy=ImageDraw.Draw(ply);fst=img();df=ImageDraw.Draw(fst)
 for t,p in city['gr']:
   if len(p)>2:(dy if t=='p' else dn).polygon(P(p),fill=255)
+  if len(p)>2 and t in('f','s'):df.polygon(P(p),fill=255 if t=='f' else 170)
 pav=np.asarray(pav).astype(np.float32)/255;grv=np.asarray(grv).astype(np.float32)/255;grn=np.asarray(grn).astype(np.float32)/255;ply=np.asarray(ply).astype(np.float32)/255
 dirt=soil.astype(np.float32)/255*(1-.6*grn)
 dirt=np.maximum(dirt,ply*.5);pav=np.maximum(pav,ply*.35)
 grv=grv*(1-pav)
-st=np.stack([dirt,grv,pav],-1)
+# forest floor (A) in OSM wood/scrub; brown mud+leaves ring at the wood edges and patchy under park trees (autumn)
+fs=np.asarray(Image.fromarray(np.asarray(fst)).filter(ImageFilter.GaussianBlur(1.2))).astype(np.float32)/255
+ring=np.asarray(Image.fromarray(np.asarray(fst)).filter(ImageFilter.MaxFilter(5)).filter(ImageFilter.GaussianBlur(1.5))).astype(np.float32)/255-fs
+rng=np.random.default_rng(3);nz=np.asarray(Image.fromarray((rng.random((H//4,W//4))*255).astype(np.uint8)).resize((W,H),Image.BICUBIC)).astype(np.float32)/255
+dirt=np.maximum(dirt,np.clip(ring*1.6,0,1)*(nz>.4));dirt=np.maximum(dirt,grn*(nz>.72)*.8)
+fs=fs*(1-pav)*(1-grv)
+st=np.stack([dirt,grv,pav,1-fs],-1)  # A stored inverted (1=no forest) so canvas premultiplication never zeroes RGB
 im=Image.fromarray((np.clip(st,0,1)*255).astype(np.uint8)).filter(ImageFilter.GaussianBlur(.7))
 im.save('tex/gnd/splat.png',optimize=True)
 print('dirt%',(dirt>.5).mean()*100,'grv%',(grv>.5).mean()*100,'pav%',(pav>.5).mean()*100)

diff --git a/README.md b/README.md
@@ -3,3 +3,5 @@
 
 ## Credits (assets)
 - Road/parking asphalt: **asphalt_02** by Poly Haven (https://polyhaven.com/a/asphalt_02), CC0 1.0 — downscaled webp, packed AO/roughness/height (tex/asph).
+- Ground (CC0, Poly Haven): clean_pebbles, brown_mud_leaves_01, forest_ground_06, concrete_pavement (tex/gnd2).
+- Cabin (CC0, Poly Haven, opt-in ?cabtex): fabric_leather_02, velour_velvet, coated_pine (tex/cab).
